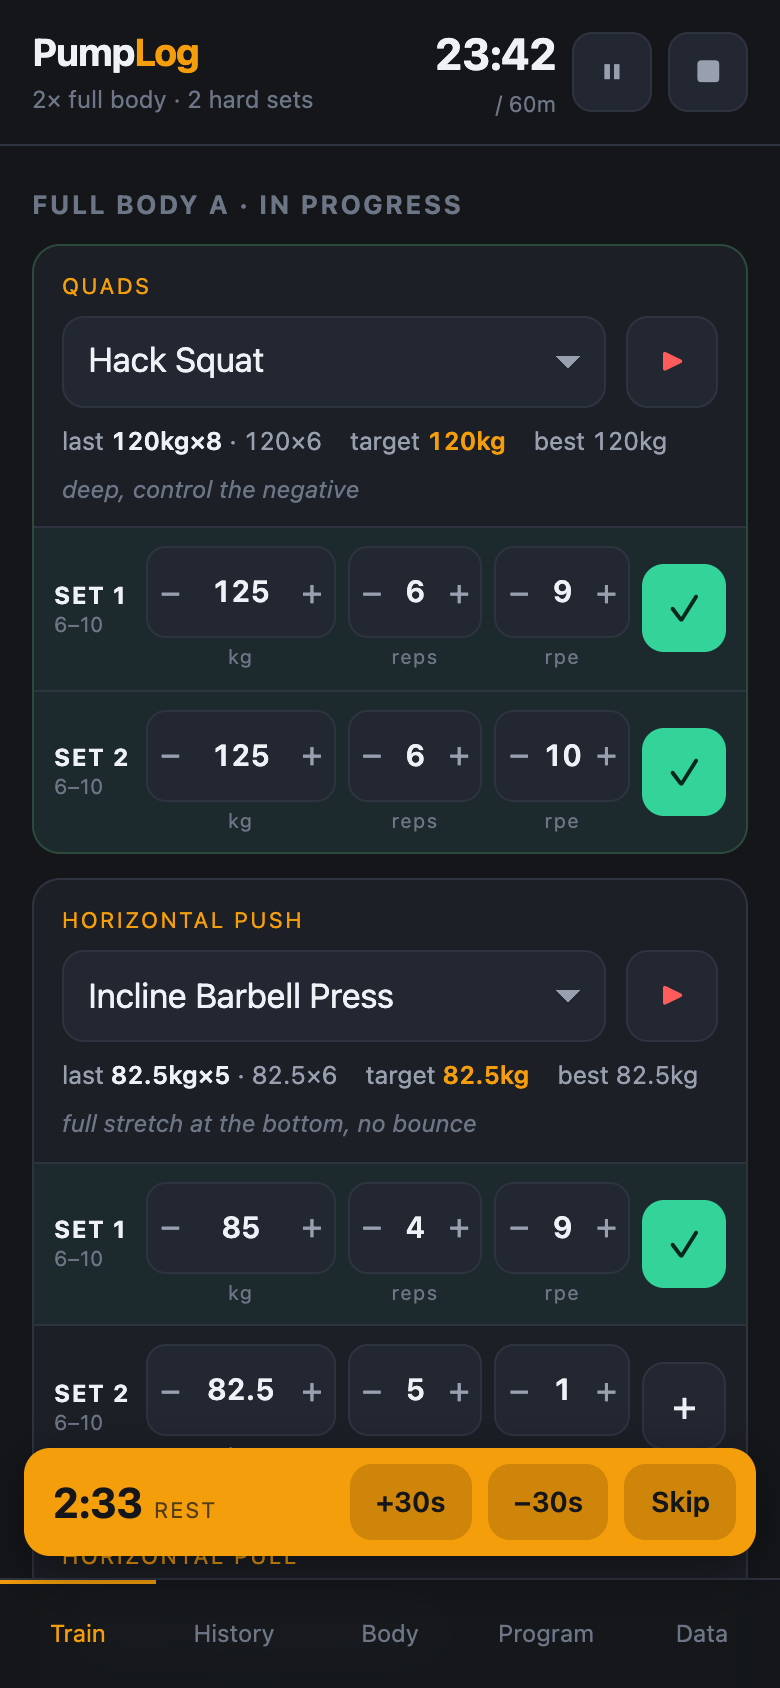
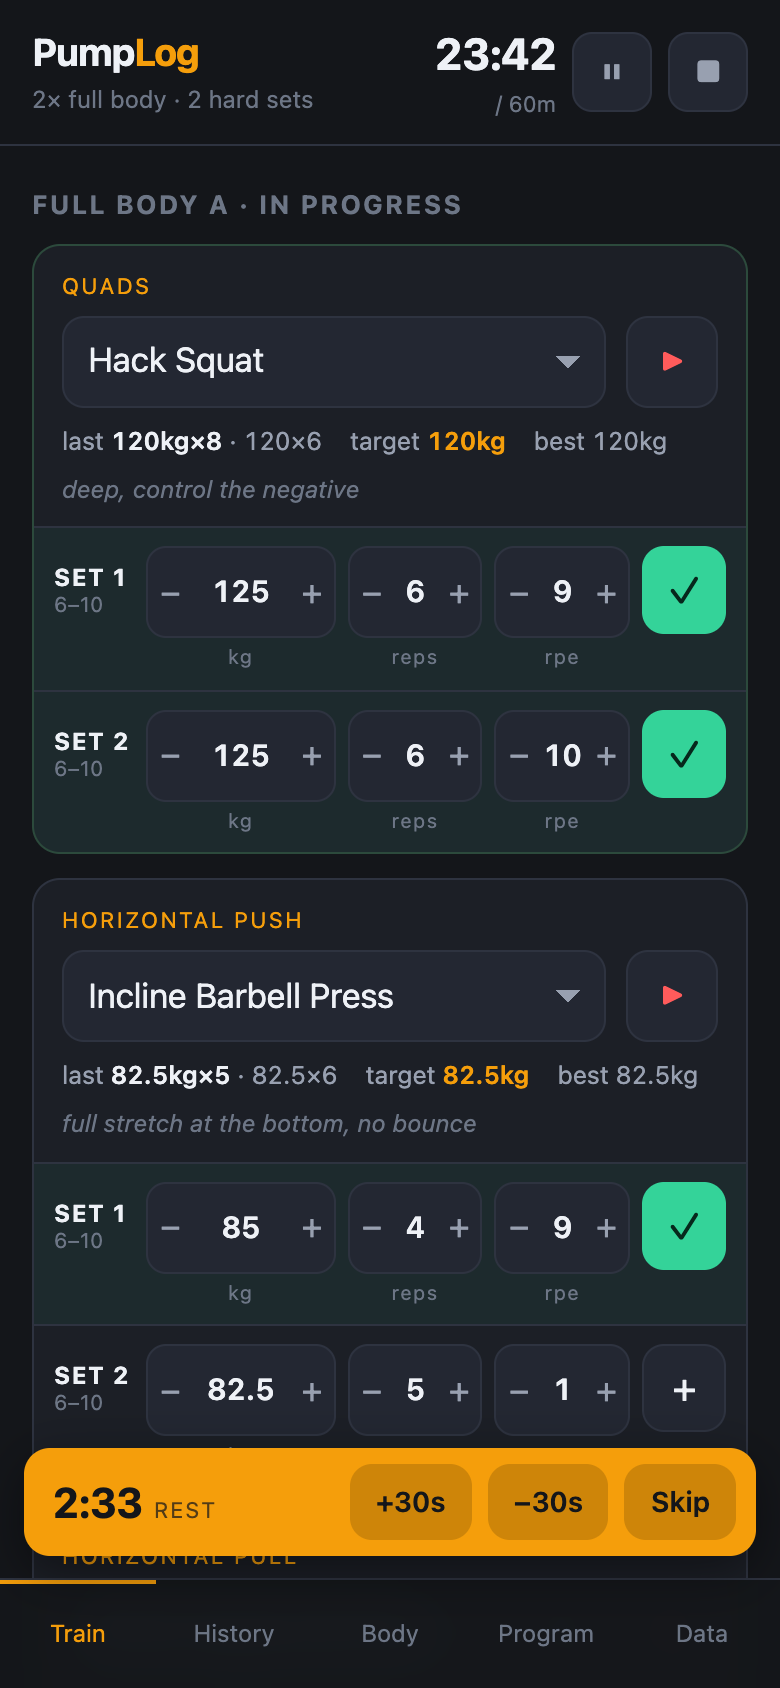
Align set-row boxes and buttons on one axis
The kg/reps/rpe tags below the inputs stretched only their own columns,
so vertical centering lifted the boxes off the SET label / log button
line. Rows are now top-aligned with the label column self-centering
against the 44px input height.

diff --git a/styles.css b/styles.css
@@ -137,10 +137,13 @@ label.fld > span { display: block; font-size: 12px; color: var(--dim2); margin-b
 .cue { font-size: 12px; color: var(--dim2); font-style: italic; margin-top: 6px; }
 
 /* Sized against iPhone 14 Pro (390pt): 48 + 3 flexible steppers + 44 fits with room. */
-.setRow { display: grid; grid-template-columns: 40px 1.4fr 1fr 1fr 42px; gap: 6px; align-items: center;
+/* Top-aligned: the unit tags hang below the inputs, so centering the whole
+   column would lift the 44px boxes off the SET label / log button axis. */
+.setRow { display: grid; grid-template-columns: 40px 1.4fr 1fr 1fr 42px; gap: 6px; align-items: start;
   padding: 9px 10px; border-top: 1px solid var(--line); }
 .setRow.logged { background: rgba(52, 211, 153, .06); }
-.setKind { font-size: 11px; line-height: 1.25; }
+.setKind { font-size: 11px; line-height: 1.25; min-height: 44px;
+  display: flex; flex-direction: column; justify-content: center; }
 .setKind b { display: block; font-size: 12px; letter-spacing: .06em; }
 .setKind i { font-style: normal; color: var(--dim2); font-size: 10.5px; }
 

diff --git a/sw.js b/sw.js
@@ -1,6 +1,6 @@
 /* Offline shell cache. Bump CACHE on every deploy so phones pick up new code. */
 
-const CACHE = 'pumplog-v5';
+const CACHE = 'pumplog-v6';
 const SHELL = [
   './', './index.html', './styles.css', './app.js',
   './manifest.webmanifest', './icon-180.png', './icon-192.png', './icon-512.png',
